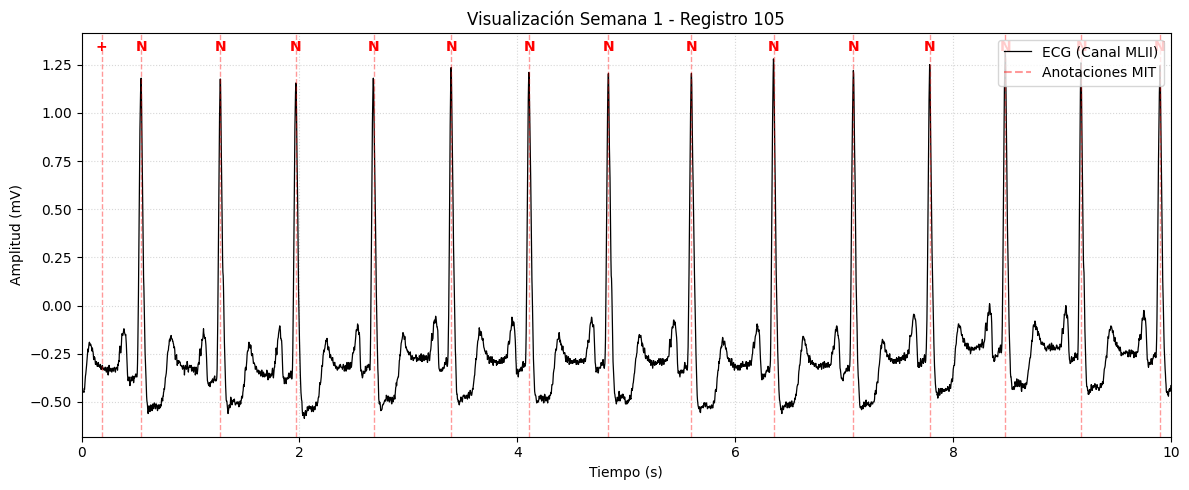
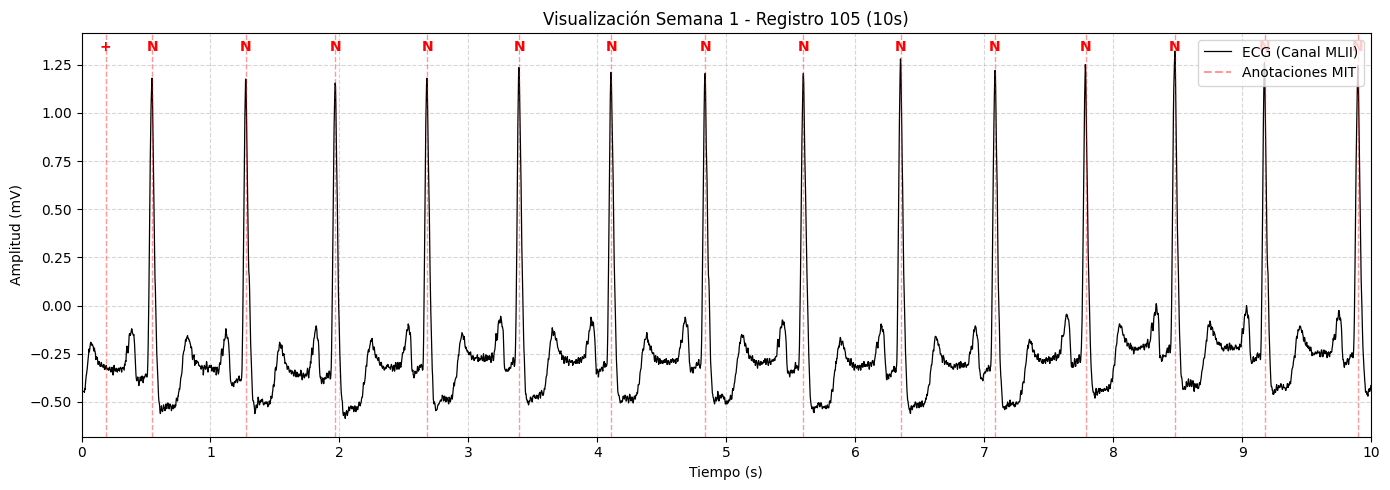
Se agrega precision a las graficas haciendo que en el eje de las x se observe el pasar de los segundos de 1 en 1

diff --git a/modulos/semana1.py b/modulos/semana1.py
@@ -47,7 +47,7 @@ class AdquisicionPhysioNet:
     def graficar_señal(self, segundos=10):
         """
         Genera una gráfica de la señal en mV con sus respectivas anotaciones.
-        Ajusta los ejes para eliminar espacios desaprovechados.
+        Ajusta los ejes para mayor precisión (marcas cada 1 segundo).
         :param segundos: Cantidad de tiempo a visualizar.
         """
         muestras = int(self.record.fs * segundos)
@@ -57,7 +57,7 @@ class AdquisicionPhysioNet:
         tiempo = np.arange(len(record_plot.p_signal)) / self.record.fs
         senal = record_plot.p_signal[:, 0]
 
-        plt.figure(figsize=(12, 5))
+        plt.figure(figsize=(14, 5))  # Aumentamos ligeramente el ancho para que los números no se amontonen
 
         # Graficar la señal
         plt.plot(tiempo, senal, color='black', lw=0.9, label=f'ECG (Canal {record_plot.sig_name[0]})')
@@ -67,21 +67,24 @@ class AdquisicionPhysioNet:
             pos_x = self.ann.sample[i] / self.record.fs
             plt.axvline(x=pos_x, color='red', linestyle='--', alpha=0.4, lw=1)
 
-            # Solo etiquetar la primera anotación en la leyenda
-            label_text = 'Anotación MIT' if i == 0 else ""
             if i == 0:
                 plt.plot([], [], color='red', linestyle='--', alpha=0.4, label='Anotaciones MIT')
 
             plt.text(pos_x, max(senal), self.ann.symbol[i], color='red',
                      fontweight='bold', horizontalalignment='center')
 
-        # --- MEJORA DE EJES Y LÍMITES ---
-        plt.xlim(0, segundos)  # AJUSTE CLAVE: Elimina los espacios a los lados
+        # --- MEJORA DE PRECISIÓN EN EJES ---
+        plt.xlim(0, segundos)
 
-        plt.title(f"Visualización Semana 1 - Registro {self.nombre_reg}")
+        # Definimos las marcas del eje X de 1 en 1 segundo
+        plt.xticks(np.arange(0, segundos + 1, 1))
+
+        plt.title(f"Visualización Semana 1 - Registro {self.nombre_reg} ({segundos}s)")
         plt.xlabel("Tiempo (s)")
         plt.ylabel(f"Amplitud ({self.record.units[0]})")
-        plt.grid(True, which='both', linestyle=':', alpha=0.5)
+
+        # Grid más marcado para facilitar la lectura tipo papel milimetrado
+        plt.grid(True, which='both', linestyle='--', alpha=0.5)
         plt.legend(loc='upper right')
 
         plt.tight_layout()
